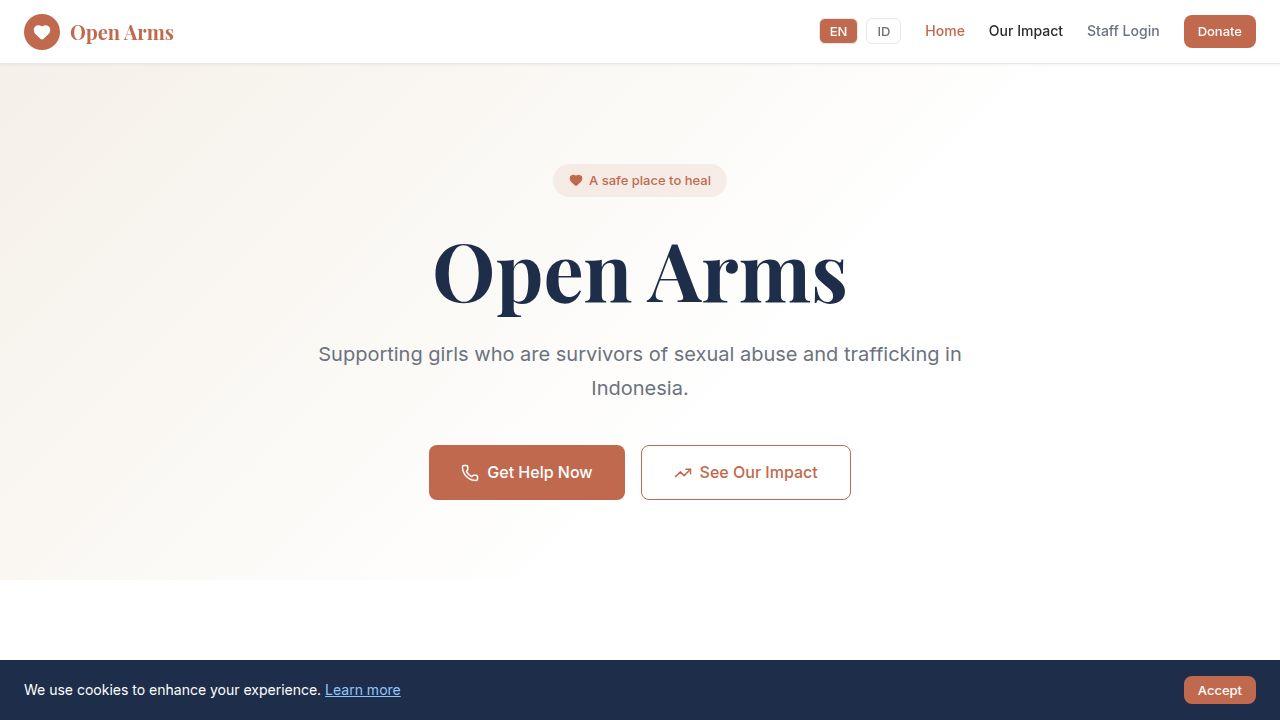
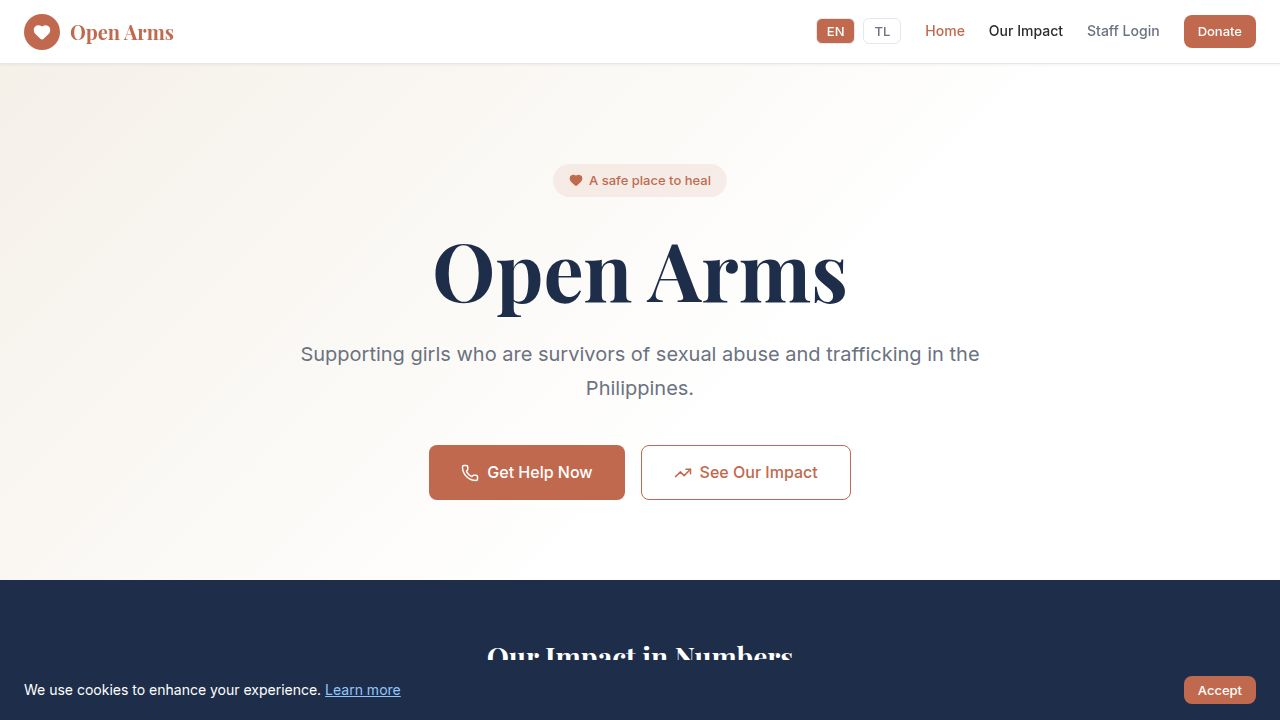
Update website content and language settings to Tagalog
Changes include updating the language type from 'en' | 'id' to 'en' | 'tl' in App.tsx, PublicLayout.tsx, Home.tsx, Impact.tsx, and Privacy.tsx. Indonesian translations have been replaced with Tagalog equivalents across these files.

Replit-Commit-Author: Agent
Replit-Commit-Session-Id: 20a64edf-940c-4426-ad7c-c3f8be197862
Replit-Commit-Checkpoint-Type: full_checkpoint
Replit-Commit-Event-Id: bc80960c-35ca-4fba-8c89-380d19d274df
Replit-Commit-Screenshot-Url: https://storage.googleapis.com/screenshot-production-us-central1/1d491d7d-b8e8-4335-81b6-39c43275f051/20a64edf-940c-4426-ad7c-c3f8be197862/k6iy9nL
Replit-Helium-Checkpoint-Created: true

Changed region(s): [[0.0, 0.7944, 1.0, 0.9167], [0.25, 0.4583, 0.7812, 0.55], [0.625, 0.0306, 0.6875, 0.0611]]

diff --git a/frontend/src/pages/Privacy.tsx b/frontend/src/pages/Privacy.tsx
@@ -13,21 +13,21 @@ const t = {
       { title: 'Contact', content: 'For privacy concerns, contact: privacy@openarms.org | Open Arms Philippines | Manila, Philippines' },
     ]
   },
-  id: {
-    title: 'Kebijakan Privasi',
-    updated: 'Terakhir diperbarui: 1 Januari 2024',
+  tl: {
+    title: 'Patakaran sa Privacy',
+    updated: 'Huling na-update: Enero 1, 2024',
     sections: [
-      { title: 'Sino Kami', content: 'Ang Open Arms ay isang nonprofit na organisasyon na tumutulong sa mga nakaligtas sa sekswal na pang-aabuso at trafficking sa Pilipinas.' },
-      { title: 'Informasi yang Kami Kumpulkan', content: 'Kami mengumpulkan informasi yang Anda berikan secara langsung (formulir kontak, permintaan donasi). Kami tidak mengumpulkan informasi yang dapat diidentifikasi secara pribadi dari para penyintas atau penghuni.' },
-      { title: 'Cara Kami Menggunakan Informasi Anda', content: 'Informasi kontak hanya digunakan untuk merespons pertanyaan Anda. Kami tidak pernah menjual atau berbagi informasi pribadi Anda kepada pihak ketiga.' },
-      { title: 'Cookie', content: 'Kami menggunakan cookie untuk meningkatkan pengalaman penelusuran Anda. Cookie penting diperlukan agar situs web berfungsi dengan baik.' },
-      { title: 'Keamanan Data', content: 'Kami menerapkan langkah-langkah keamanan standar industri untuk melindungi informasi Anda. Semua data dienkripsi dalam transit dan saat istirahat.' },
-      { title: 'Kontak', content: 'Untuk masalah privasi, hubungi: privacy@openarms.org' },
+      { title: 'Sino Kami', content: 'Ang Open Arms ay isang nonprofit na organisasyon na tumutulong sa mga nakaligtas sa sekswal na pang-aabuso at trafficking sa Pilipinas. Ang aming website ay openarms.org.' },
+      { title: 'Impormasyong Kinokolekta Namin', content: 'Kinokolekta namin ang impormasyong direktang ibinibigay ninyo (mga form sa pakikipag-ugnayan, kahilingan sa donasyon). Hindi namin kinokolekta ang anumang personal na impormasyon mula sa mga nakaligtas o residente. Lahat ng datos ng kaso ay ligtas na nakaimbak at anonymous.' },
+      { title: 'Paano Namin Ginagamit ang Inyong Impormasyon', content: 'Ang impormasyon sa pakikipag-ugnayan ay ginagamit lamang upang tumugon sa inyong mga katanungan. Ang impormasyon sa donasyon ay ginagamit upang maproseso ang mga kontribusyon. Hindi namin ibinebenta o ibinabahagi ang inyong personal na impormasyon sa mga third party.' },
+      { title: 'Mga Cookie', content: 'Gumagamit kami ng cookies upang mapabuti ang inyong karanasan sa pagba-browse. Ang mahahalagang cookies ay kinakailangan para gumana ang website. Maaari kayong mag-opt out ng mga hindi mahahalagang cookies sa pamamagitan ng aming banner.' },
+      { title: 'Seguridad ng Data', content: 'Nagpapatupad kami ng mga pamantayang pang-industriya na hakbang sa seguridad upang protektahan ang inyong impormasyon. Lahat ng datos ay naka-encrypt habang nasa transit at nakaimbak. Ang access sa sensitibong datos ng kaso ay limitado lamang sa mga awtorisadong kawani.' },
+      { title: 'Pakikipag-ugnayan', content: 'Para sa mga alalahanin sa privacy, makipag-ugnayan sa: privacy@openarms.org | Open Arms Philippines | Manila, Pilipinas' },
     ]
   }
 }
 
-export default function Privacy({ lang }: { lang: 'en' | 'id' }) {
+export default function Privacy({ lang }: { lang: 'en' | 'tl' }) {
   const tx = t[lang]
   return (
     <div style={{ maxWidth: 800, margin: '0 auto', padding: '80px 24px' }}>

diff --git a/frontend/src/pages/Home.tsx b/frontend/src/pages/Home.tsx
@@ -26,27 +26,27 @@ const t = {
     donate: 'Support Our Work',
     contact: 'Contact Us',
   },
-  id: {
-    badge: 'Tempat aman untuk pulih',
+  tl: {
+    badge: 'Isang ligtas na lugar para gumaling',
     title: 'Open Arms',
-    subtitle: 'Tumutulong sa mga kababaihang nakaligtas sa sekswal na pang-aabuso at trafficking sa Pilipinas.',
-    help: 'Dapatkan Bantuan',
-    impact: 'Lihat Dampak Kami',
-    mission: 'Misi Kami',
-    missionText: 'Open Arms memberikan perawatan, penyembuhan, dan dukungan reintegrasi yang komprehensif bagi penyintas kekerasan seksual. Kami mendampingi setiap anak perempuan dalam perjalanan menuju pemulihan dan martabat.',
-    services: ['Tempat Perlindungan', 'Konseling Trauma', 'Pendidikan & Pelatihan', 'Bantuan Hukum', 'Reintegrasi Keluarga', 'Kesehatan & Kesejahteraan'],
-    statsTitle: 'Dampak Kami dalam Angka',
-    helped: 'Gadis Dibantu',
-    active: 'Dalam Perawatan',
-    safehouses: 'Rumah Aman',
-    reintegration: 'Tingkat Reintegrasi',
-    faithTitle: 'Harapan & Pemulihan',
-    faithText: '"Ia menyembuhkan orang-orang yang patah hati dan membalut luka-luka mereka." — Mazmur 147:3',
-    faithSub: 'Setiap anak perempuan yang datang kepada kami memiliki nilai yang tak ternilai. Kami percaya pada kemungkinan penyembuhan dan pemulihan yang sempurna.',
-    ctaTitle: 'Jadilah Bagian dari Cerita',
+    subtitle: 'Tumutulong sa mga batang babaeng nakaligtas sa sekswal na pang-aabuso at trafficking sa Pilipinas.',
+    help: 'Humingi ng Tulong',
+    impact: 'Tingnan ang Aming Epekto',
+    mission: 'Aming Misyon',
+    missionText: 'Ang Open Arms ay nagbibigay ng komprehensibong pag-aalaga, pagpapagaling, at suporta sa muling pagsasama para sa mga nakaligtas sa sekswal na pang-aabuso at trafficking. Sinasamahan namin ang bawat batang babae sa kanyang paglalakbay tungo sa pagpapanumbalik at dignidad.',
+    services: ['Ligtas na Tirahan', 'Konseling sa Trauma', 'Edukasyon at Bokasyonal na Pagsasanay', 'Legal na Tulong', 'Muling Pagsasama ng Pamilya', 'Kalusugan at Kagalingan'],
+    statsTitle: 'Aming Epekto sa mga Numero',
+    helped: 'Mga Batang Babae na Natulungan',
+    active: 'Kasalukuyang sa Pag-aalaga',
+    safehouses: 'Ligtas na Lokasyon',
+    reintegration: 'Antas ng Muling Pagsasama',
+    faithTitle: 'Pag-asa at Pagpapanumbalik',
+    faithText: '"Pinagagaling niya ang mga may pusong nasira at binibigkis ang kanilang mga sugat." — Awit 147:3',
+    faithSub: 'Bawat batang babaeng dumarating sa aming pinto ay may walang kapantay na halaga. Naniniwala kami sa posibilidad ng kumpletong pagpapagaling at pagpapanumbalik.',
+    ctaTitle: 'Maging Bahagi ng Kwento',
     ctaText: 'Ang inyong suporta ay nagbibigay ng pagbabago para sa mga nakaligtas sa buong Pilipinas.',
-    donate: 'Dukung Karya Kami',
-    contact: 'Hubungi Kami',
+    donate: 'Suportahan ang Aming Gawain',
+    contact: 'Makipag-ugnayan sa Amin',
   }
 }
 
@@ -56,7 +56,7 @@ function formatPHP(n: number) {
   return `₱${n.toLocaleString()}`
 }
 
-export default function Home({ lang }: { lang: 'en' | 'id' }) {
+export default function Home({ lang }: { lang: 'en' | 'tl' }) {
   const tx = t[lang]
   const { data } = useQuery({ queryKey: ['impact-snapshot'], queryFn: getImpactSnapshot })
 

diff --git a/frontend/src/components/PublicLayout.tsx b/frontend/src/components/PublicLayout.tsx
@@ -2,11 +2,11 @@ import { useState, useEffect } from 'react'
 import { Link, useLocation } from 'react-router-dom'
 import { Heart, Globe, Menu, X } from 'lucide-react'
 
-interface Props { children: React.ReactNode; lang: 'en' | 'id'; setLang: (l: 'en' | 'id') => void }
+interface Props { children: React.ReactNode; lang: 'en' | 'tl'; setLang: (l: 'en' | 'tl') => void }
 
 const t = {
   en: { home: 'Home', impact: 'Our Impact', login: 'Staff Login', donate: 'Donate', cookieMsg: 'We use cookies to enhance your experience.', accept: 'Accept' },
-  id: { home: 'Beranda', impact: 'Dampak Kami', login: 'Masuk Staf', donate: 'Donasi', cookieMsg: 'Kami menggunakan cookie untuk meningkatkan pengalaman Anda.', accept: 'Setuju' }
+  tl: { home: 'Tahanan', impact: 'Aming Epekto', login: 'Login ng Kawani', donate: 'Mag-donate', cookieMsg: 'Gumagamit kami ng cookies upang mapabuti ang inyong karanasan.', accept: 'Tanggapin' }
 }
 
 export default function PublicLayout({ children, lang, setLang }: Props) {
@@ -45,12 +45,12 @@ export default function PublicLayout({ children, lang, setLang }: Props) {
               color: lang === 'en' ? 'white' : 'var(--text-muted)', border: '1px solid var(--border)',
               cursor: 'pointer'
             }}>EN</button>
-            <button onClick={() => setLang('id')} style={{
+            <button onClick={() => setLang('tl')} style={{
               padding: '4px 10px', borderRadius: 6, fontSize: 13, fontWeight: 500,
-              background: lang === 'id' ? 'var(--terracotta)' : 'transparent',
-              color: lang === 'id' ? 'white' : 'var(--text-muted)', border: '1px solid var(--border)',
+              background: lang === 'tl' ? 'var(--terracotta)' : 'transparent',
+              color: lang === 'tl' ? 'white' : 'var(--text-muted)', border: '1px solid var(--border)',
               cursor: 'pointer'
-            }}>ID</button>
+            }}>TL</button>
           </div>
           <Link to="/" style={{ fontSize: 14, fontWeight: 500, color: pathname === '/' ? 'var(--terracotta)' : 'var(--text)' }}>{tx.home}</Link>
           <Link to="/impact" style={{ fontSize: 14, fontWeight: 500, color: pathname === '/impact' ? 'var(--terracotta)' : 'var(--text)' }}>{tx.impact}</Link>

diff --git a/frontend/src/pages/Impact.tsx b/frontend/src/pages/Impact.tsx
@@ -19,16 +19,16 @@ const t = {
     outcomesTitle: 'Resident Outcomes', outcomesSub: 'Current status of all cases',
     safehouseTitle: 'Our Safe Locations', safehouseSub: 'Active shelters across the Philippines',
   },
-  id: {
-    title: 'Ang Aming Epekto', subtitle: 'Ang transparency ay nasa puso ng aming misyon. Alamin kung paano nakakatulong ang inyong suporta sa mga nakaligtas sa Pilipinas.',
-    helped: 'Mga Nakatulong', active: 'Sa Pag-aalaga', locations: 'Ligtas na Lugar', reintegration: 'Reintegration Rate',
-    donationTitle: 'Trend ng Donasyon', donationSub: 'Buwanang suporta sa paglipas ng panahon',
-    outcomesTitle: 'Resulta ng mga Residente', outcomesSub: 'Kasalukuyang status ng lahat ng kaso',
-    safehouseTitle: 'Aming Ligtas na Lugar', safehouseSub: 'Aktibong shelter sa buong Pilipinas',
+  tl: {
+    title: 'Aming Epekto', subtitle: 'Ang transparency ay nasa puso ng aming misyon. Alamin kung paano nakakatulong ang inyong suporta sa mga nakaligtas sa buong Pilipinas.',
+    helped: 'Mga Batang Babae na Natulungan', active: 'Kasalukuyang sa Pag-aalaga', locations: 'Ligtas na Lokasyon', reintegration: 'Antas ng Muling Pagsasama',
+    donationTitle: 'Mga Trend ng Donasyon', donationSub: 'Buwanang suporta sa paglipas ng panahon',
+    outcomesTitle: 'Resulta ng mga Residente', outcomesSub: 'Kasalukuyang katayuan ng lahat ng kaso',
+    safehouseTitle: 'Aming mga Ligtas na Lokasyon', safehouseSub: 'Mga aktibong shelter sa buong Pilipinas',
   }
 }
 
-export default function Impact({ lang }: { lang: 'en' | 'id' }) {
+export default function Impact({ lang }: { lang: 'en' | 'tl' }) {
   const tx = t[lang]
   const { data: snap } = useQuery({ queryKey: ['impact-snapshot'], queryFn: getImpactSnapshot })
   const { data: safehouses } = useQuery({ queryKey: ['public-safehouses'], queryFn: getPublicSafehouses })

diff --git a/frontend/src/App.tsx b/frontend/src/App.tsx
@@ -33,7 +33,7 @@ function RequireAuth({ children }: { children: React.ReactNode }) {
 }
 
 function AppRoutes() {
-  const [lang, setLang] = useState<'en' | 'id'>('en')
+  const [lang, setLang] = useState<'en' | 'tl'>('en')
 
   return (
     <Routes>
